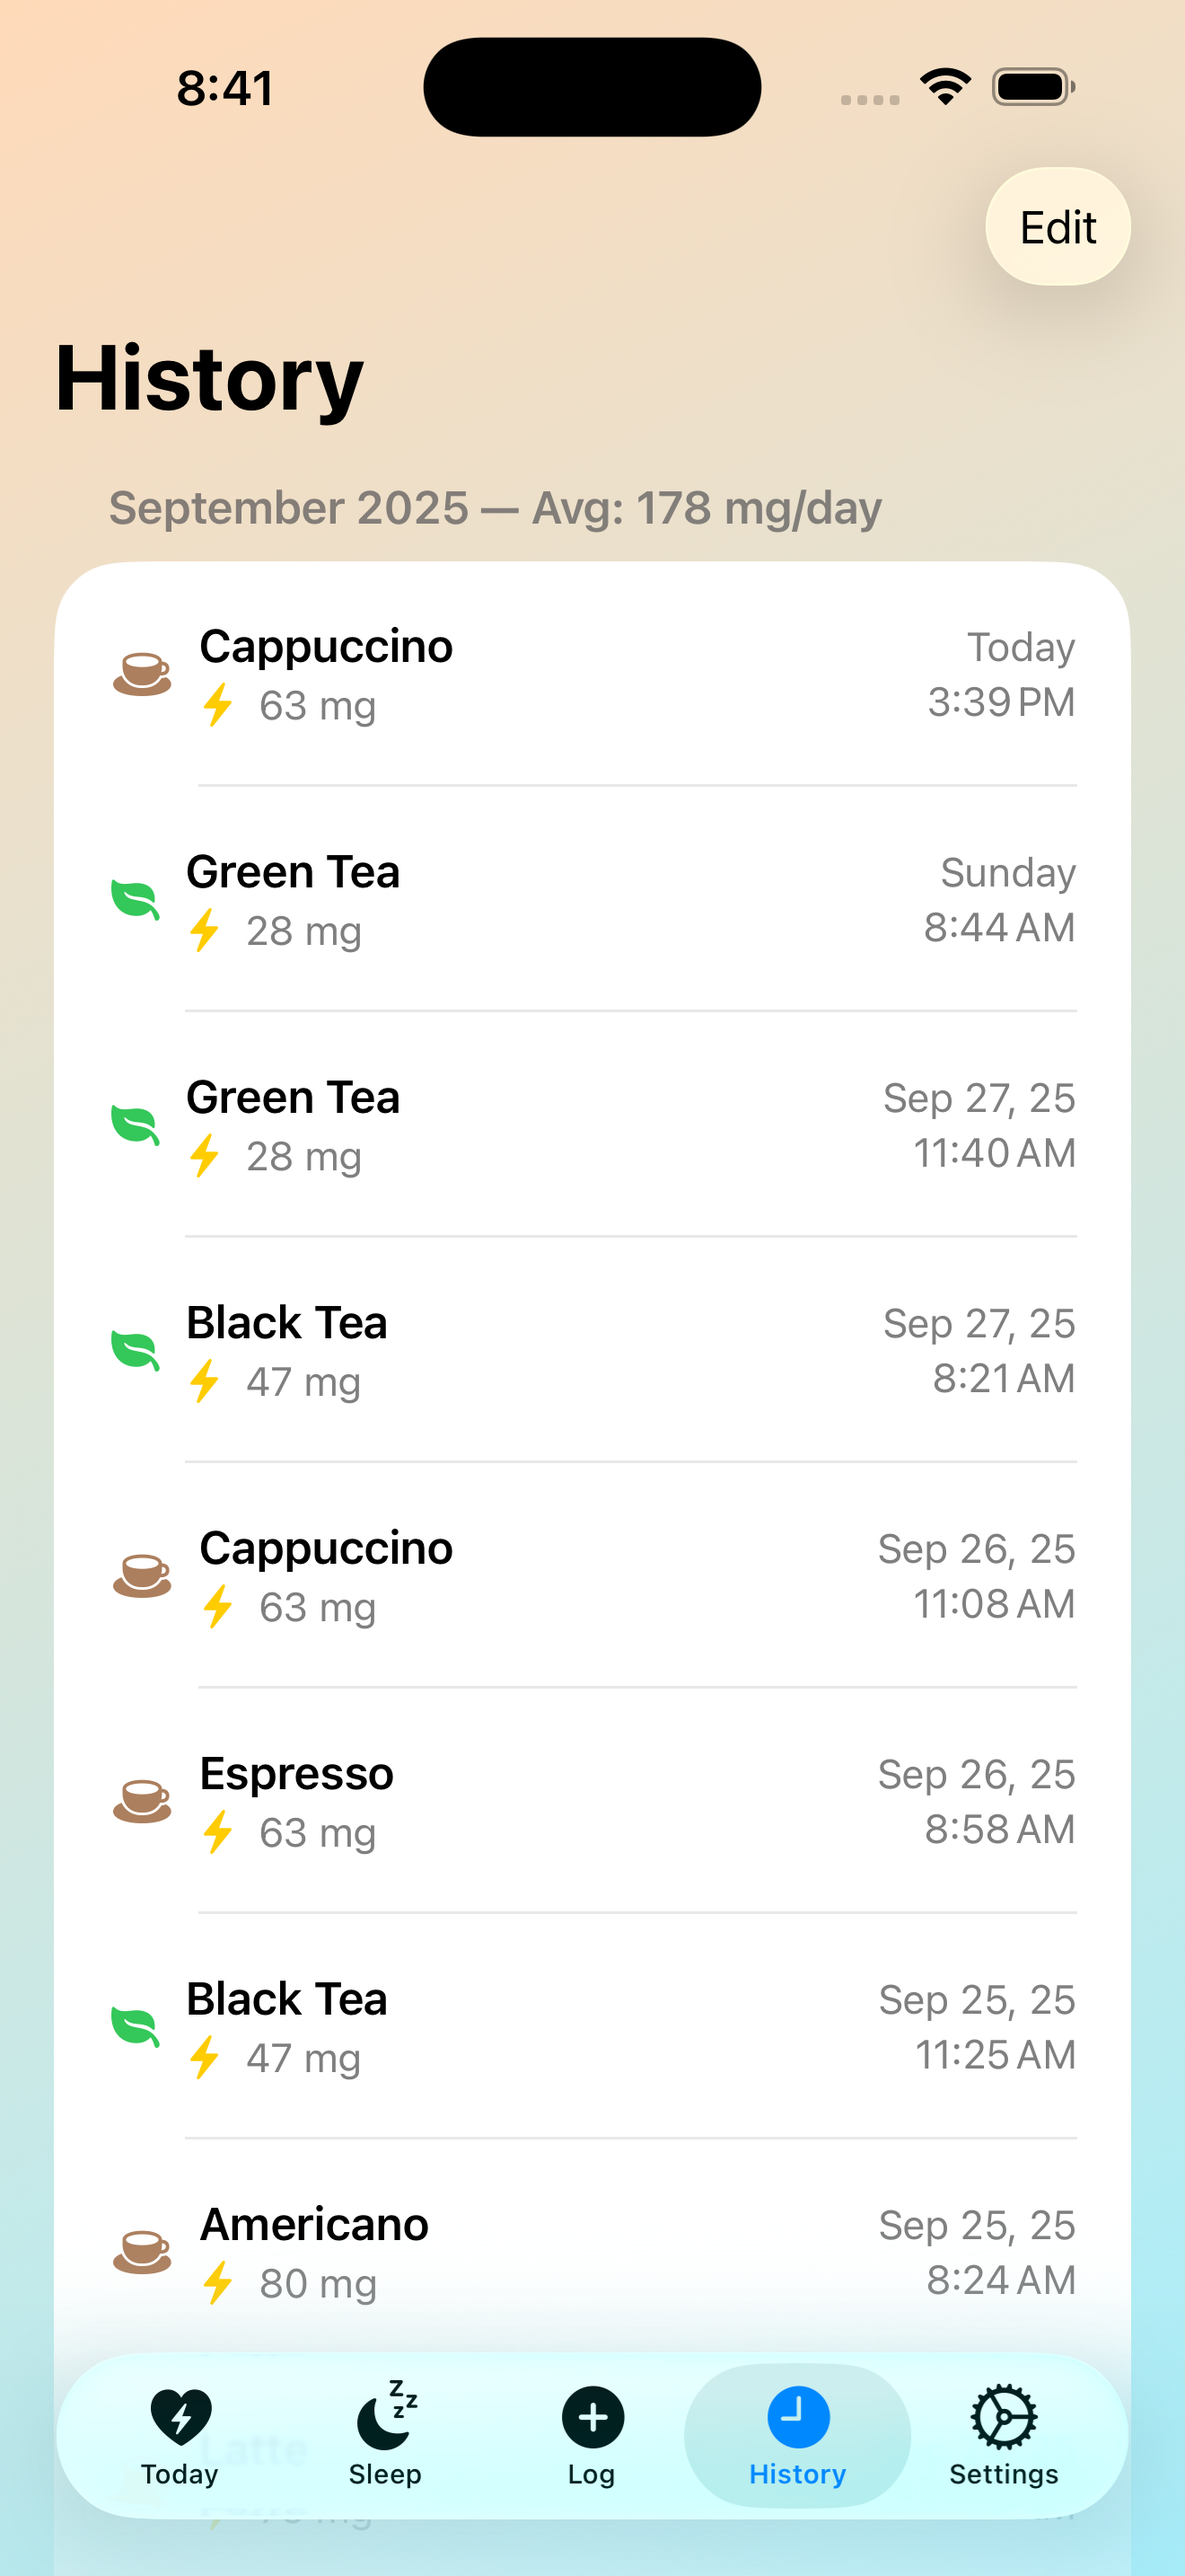
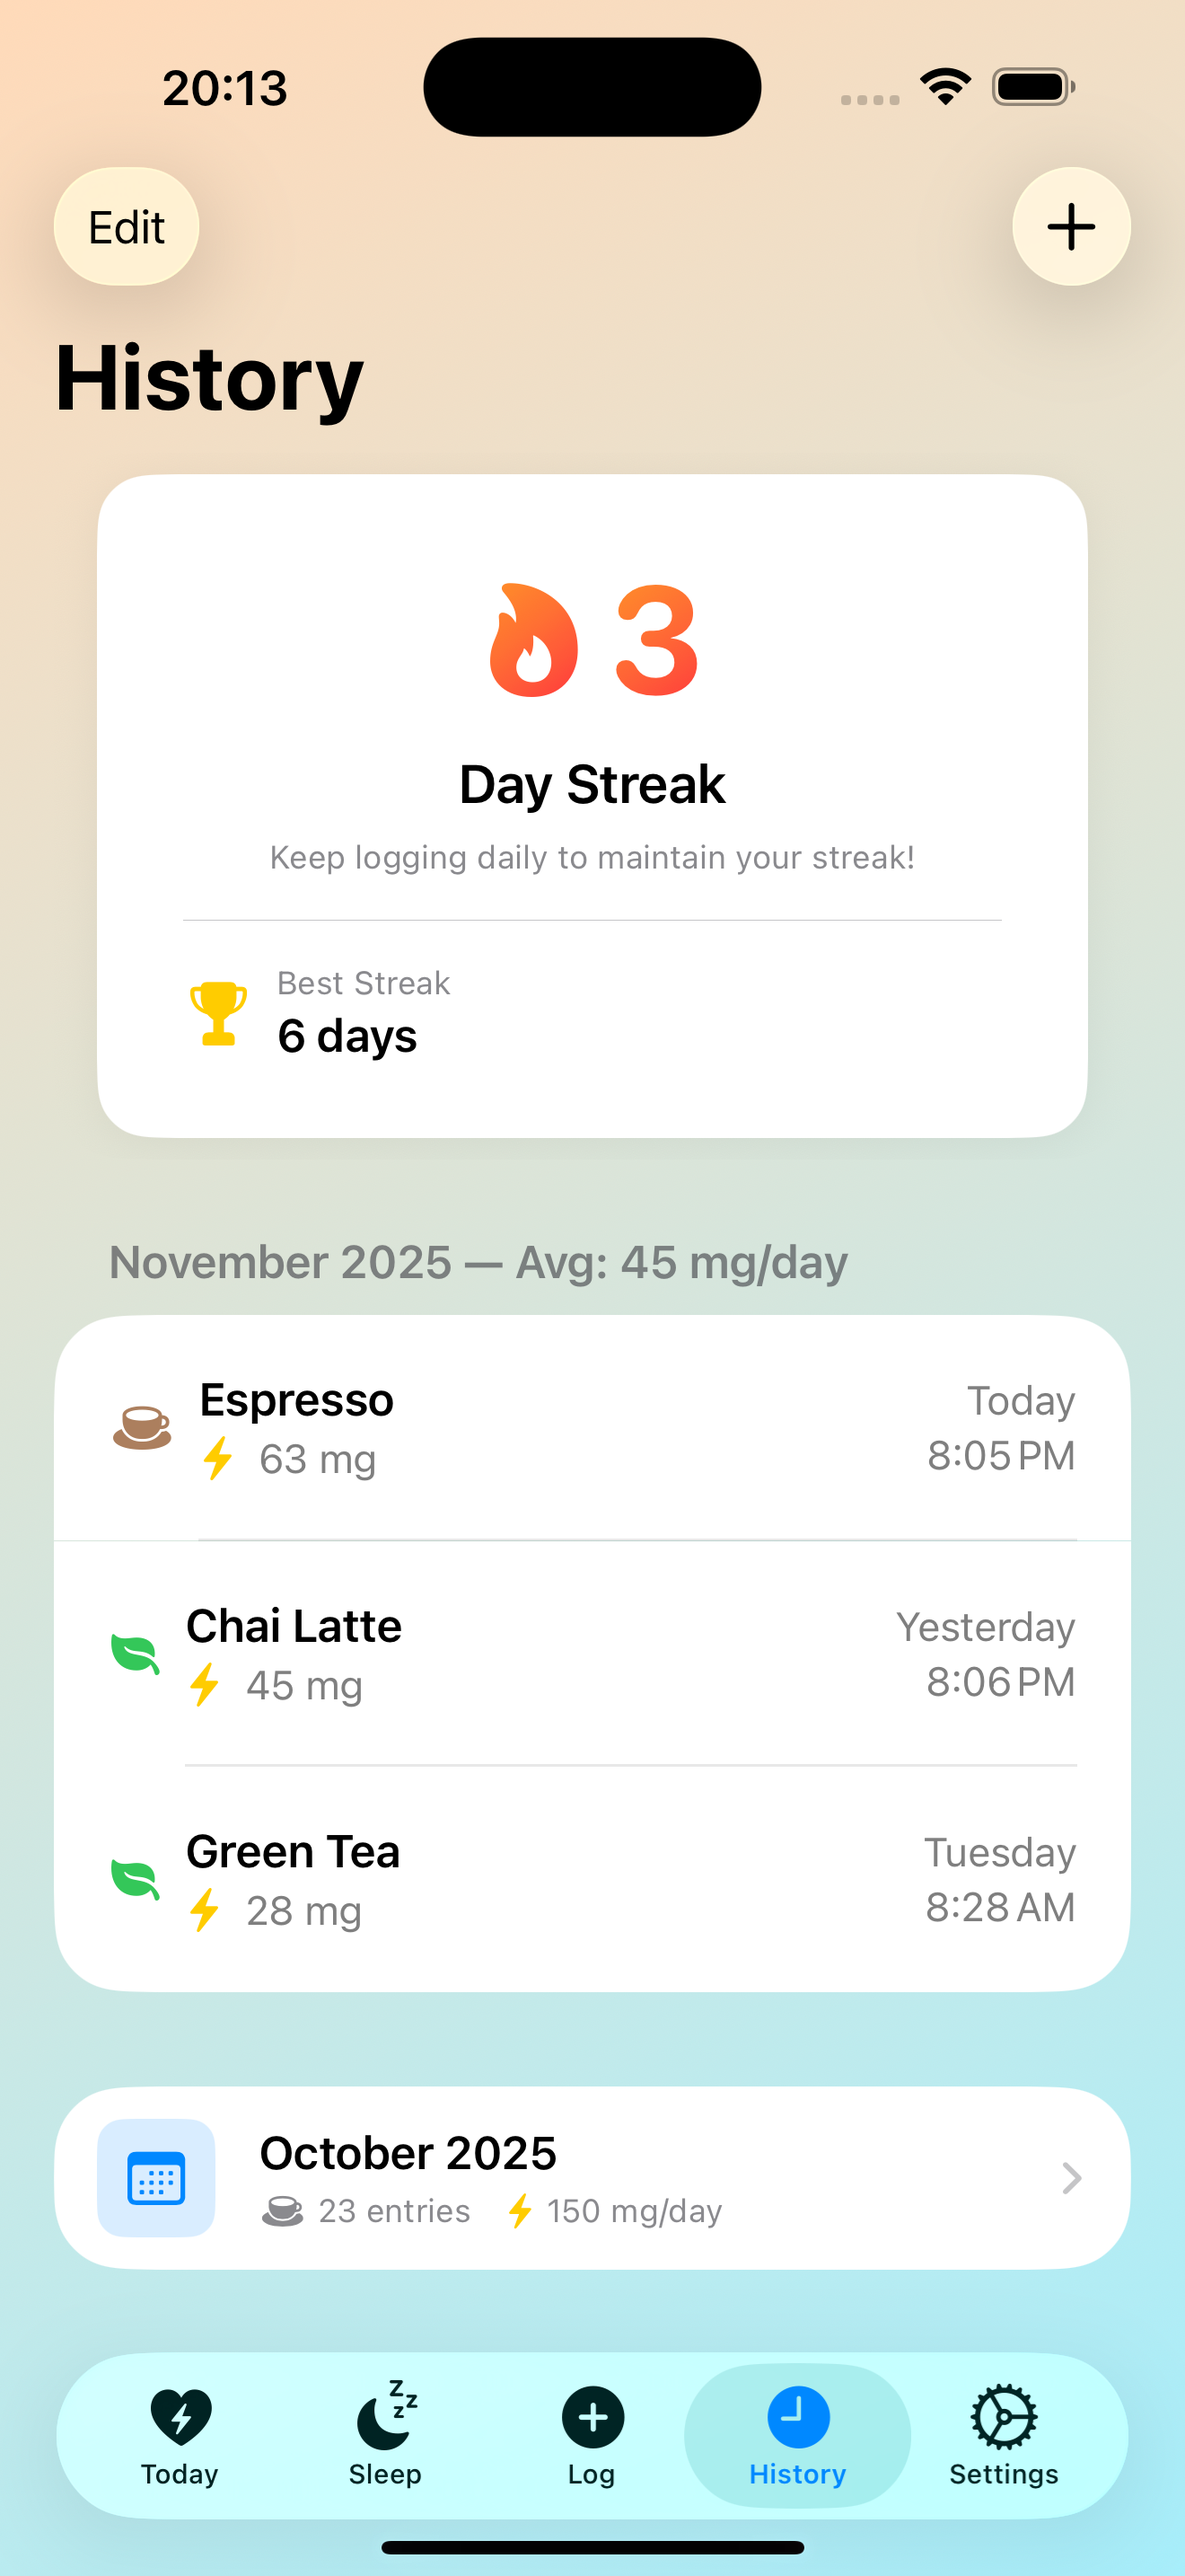
feat: Version 5.0 - Daily Streaks, Sleep Insights & Performance Optimizations
NEW FEATURES:
- Daily logging streaks with visual counters and best streak tracking
- Sleep insights card showing last night's sleep and caffeine comparison
- Grouped history view with current month expanded, previous months summarized
- Month detail view for exploring historical data

PERFORMANCE OPTIMIZATIONS:
- Fixed critical 99% CPU usage issue by removing Task queue bottleneck
- Eliminated UUID animation bug causing 60x unnecessary view rebuilds
- Removed TimelineView causing constant per-second updates
- Added comprehensive caching for chart data, cortisol calculations, and history grouping
- Implemented throttling mechanism (max 2 updates/sec) for chart updates
- Optimized @Query access patterns and removed unnecessary @ObservedObject
- Fixed double-rebuild issue in SettingsView
- Added thread-safe sleep cache with concurrent dispatch queue
- Removed debug print statements causing I/O bottleneck

diff --git a/README.md b/README.md
@@ -8,9 +8,12 @@ Beautifully designed with Apple's **Liquid Glass** aesthetic in mind, Mindful Co
 
 ## ✨ Key Features
 
+* **NEW! Daily Logging Streaks:** Stay motivated and consistent with your tracking goals through visual streak counters that celebrate your logging consistency.
+* **NEW! Sleep Insights Card:** View your last night's sleep duration and caffeine intake at a glance, with comparison to your average sleep patterns.
+* **NEW! Grouped History View:** Navigate your consumption history effortlessly with the current month fully expanded and previous months neatly summarized for quick reference.
 * **Effortless & Detailed Logging:** Quickly record your caffeine consumption with a user-friendly interface. After logging, you're brought back to the "Today" screen for an immediate overview. Customize your beverage list with:
     * **Smart Sorting Options:** Sort your drink list by "Last Used" or "Most Used" for even faster logging.
-* **NEW! Cortisol Rhythm Modeling:** See your body's natural energy curve (the Cortisol Awakening Response or CAR) to optimize your caffeine timing for better focus and well-being. Understand how each drink impacts this vital rhythm.
+* **Cortisol Rhythm Modeling:** See your body's natural energy curve (the Cortisol Awakening Response or CAR) to optimize your caffeine timing for better focus and well-being. Understand how each drink impacts this vital rhythm.
 * **Intelligent Sleep Prediction:** See a real-time estimate of when your caffeine levels will be low enough for quality sleep based on your intake and personalized settings.
 * **"What-If" Scenarios:** Instantly preview how an additional drink might affect your predicted sleep time *before* you consume it, right from the drink selection list.
 * **Personal Metabolism Assistant:** Answer a series of guided questions about your caffeine experiences. The assistant then analyzes your responses to suggest personalized values for your sensitivity, half-life, and thresholds, helping you fine-tune the app for maximum accuracy.
@@ -90,7 +93,7 @@ If you use Mindful Coffee in your research, please cite it as follows:
   author       = {Loth, Alexander},
   title        = {Mindful Coffee: Caffeine Log & Cortisol Rhythm},
   year         = {2025},
-  version      = {4.5},
+  version      = {5.0},
   publisher    = {Alexander Loth},
   url          = {https://apps.apple.com/us/app/mindful-coffee-tracks-caffeine/id6742878005}
 }
